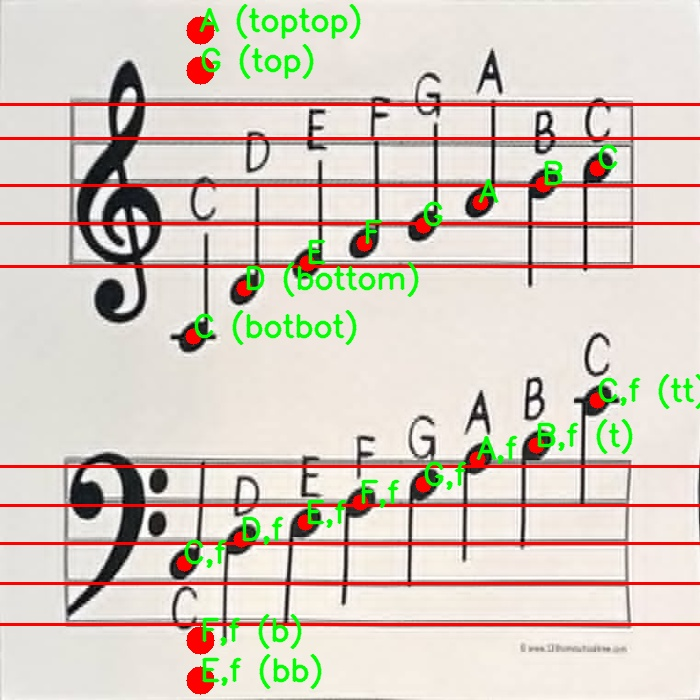
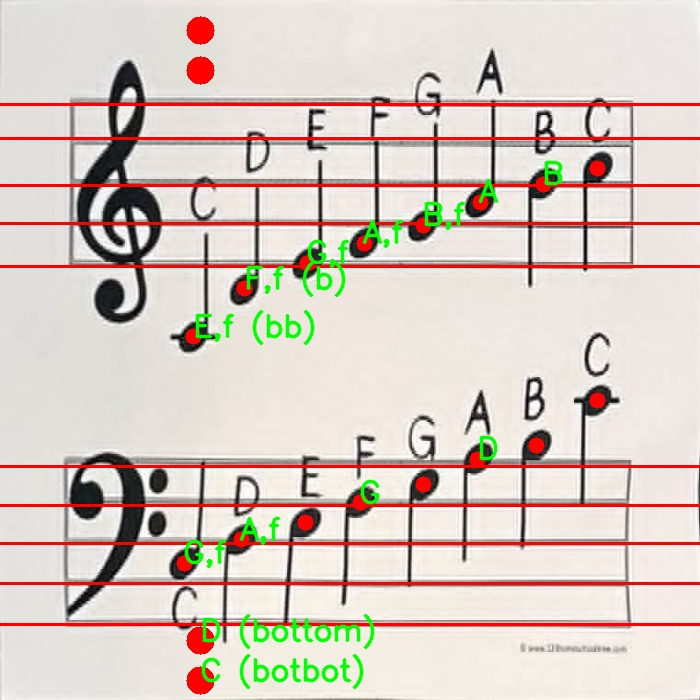
rydding2

diff --git a/ryddet mappe/note_detection.py b/ryddet mappe/note_detection.py
@@ -39,39 +39,34 @@ for line in lines_ro_theta:
         # Filter out lines that are not horizontal
         if theta < wanted_angle - epsilon or theta > wanted_angle + epsilon: continue 
 
-        # calculate the x and y coordinates of the lines from the rho and theta
-        a = np.cos(theta)
-        b = np.sin(theta)
-        x0 = a*rho
-        y0 = b*rho
-        x1 = int(x0 + 2000*(-b))
-        y1 = int(y0 + 2000*(a))
-        x2 = int(x0 - 2000*(-b))
-        y2 = int(y0 - 2000*(a))
+        # calculate the x and y starting/ending coordinates of the lines from the rho and theta
+        x1, y1, x2, y2 = utils.getLinePosition(rho, theta)
         lines_x_y.append((x1,y1,x2,y2, rho, theta))
 
 close_threshold = 30
 filtered_lines = utils.remove_close_lines(lines_x_y, close_threshold, img)
 
+# Sort lines by rho value (distance from origin)
 sorted_lines = sorted(filtered_lines, key=lambda x: x[4], reverse=True)
 
-# Draw the lines!
-#test
-print("Hei")
+# Draw the lines on the image
 for line in sorted_lines:
     x1, y1, x2, y2, rho, theta = line
     cv2.line(img, (x1, y1), (x2, y2), (0, 0, 255), 2)
 
+# Split the lines into groups of 5 (5 lines per staff)
 split_lines = [sorted_lines[i:i+5] for i in range(0, len(sorted_lines), 5)]
 
-value_to_add = 1
+# Add note positions to the lines
+note_index = 1
 for sublist in split_lines:
     for index, tup in enumerate(sublist):
-        sublist[index] = tup + (value_to_add,)
-        value_to_add += 1
-        if value_to_add > 5:
-            value_to_add = 1
+        sublist[index] = tup + (note_index,)
+        note_index += 1
+        if note_index > 5:
+            note_index = 1
 
+# Add clef boolean value to every line
 for i in range(len(split_lines)):
     if i % 2 == 0:
         g_staff = False
@@ -80,22 +75,13 @@ for i in range(len(split_lines)):
     for j in range(len(split_lines[i])):
         split_lines[i][j] = split_lines[i][j] + (g_staff,)
 
-circle2 = (200,30,14)
-cv2.circle(img, (circle2[0],circle2[1]),circle2[2],(0,0,255),-1)
-circles.append((circle2[0],circle2[1],circle2[2]))
+# Draw manual circles on the image to show note detection logic
+circle_positions = [(200, 30, 14), (200, 70, 14), (200, 680, 14), (200, 640, 14)]
+for circle in circle_positions:
+    cv2.circle(img, (circle[0], circle[1]), circle[2], (0, 0, 255), -1)
+    circles.append((circle[0], circle[1], circle[2]))
 
-circle1 = (200,70,14)
-cv2.circle(img, (circle1[0],circle1[1]),circle1[2],(0,0,255),-1)
-circles.append((circle1[0],circle1[1],circle1[2]))
-
-circle3 = (200,680,14)
-cv2.circle(img, (circle3[0],circle3[1]),circle3[2],(0,0,255),-1)
-circles.append((circle3[0],circle3[1],circle3[2]))
-
-circle4 = (200,640,14)
-cv2.circle(img, (circle4[0],circle4[1]),circle4[2],(0,0,255),-1)
-circles.append((circle4[0],circle4[1],circle4[2]))
-
+# Draw the notes on the image
 for circle in circles:
     no_intersection_found = True
     (x_c,y_c,r) = circle

diff --git a/ryddet mappe/note_utils.py b/ryddet mappe/note_utils.py
@@ -32,6 +32,17 @@ def getNoteDetectParams(minAreal,maxAreal):
 	params.maxInertiaRatio = 0.56
 	return params
 
+def getLinePosition(rho, theta):
+    a = np.cos(theta)
+    b = np.sin(theta)
+    x0 = a*rho
+    y0 = b*rho
+    x1 = int(x0 + 2000*(-b))
+    y1 = int(y0 + 2000*(a))
+    x2 = int(x0 - 2000*(-b))
+    y2 = int(y0 - 2000*(a))
+    return x1, y1, x2, y2
+
 #True: close line, False: not close line
 def check_close_line(line,filter_lines,treshold, img):
     x1,y1,x2,y2, rho, theta = line
